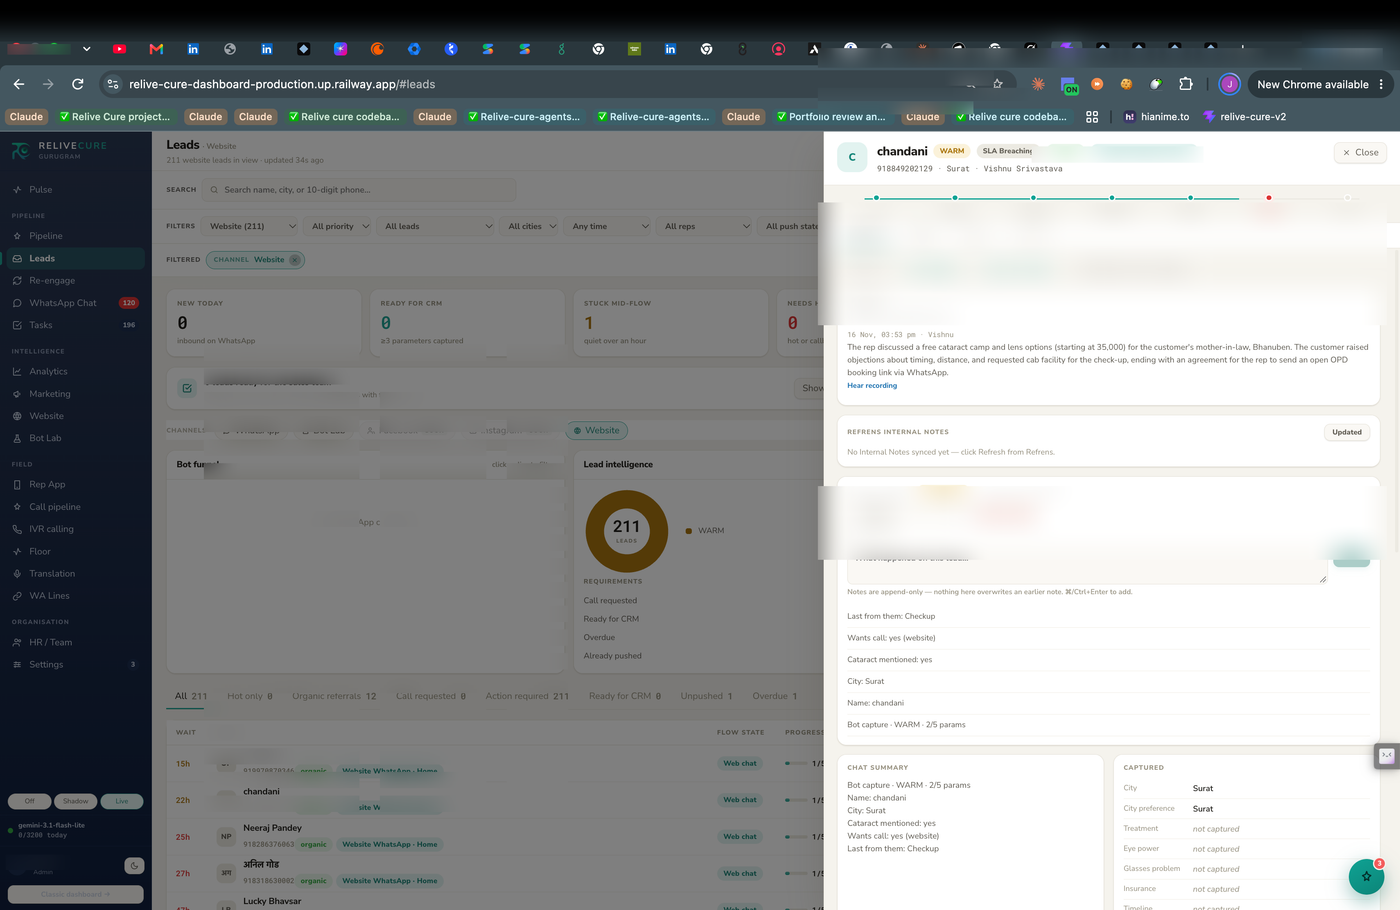
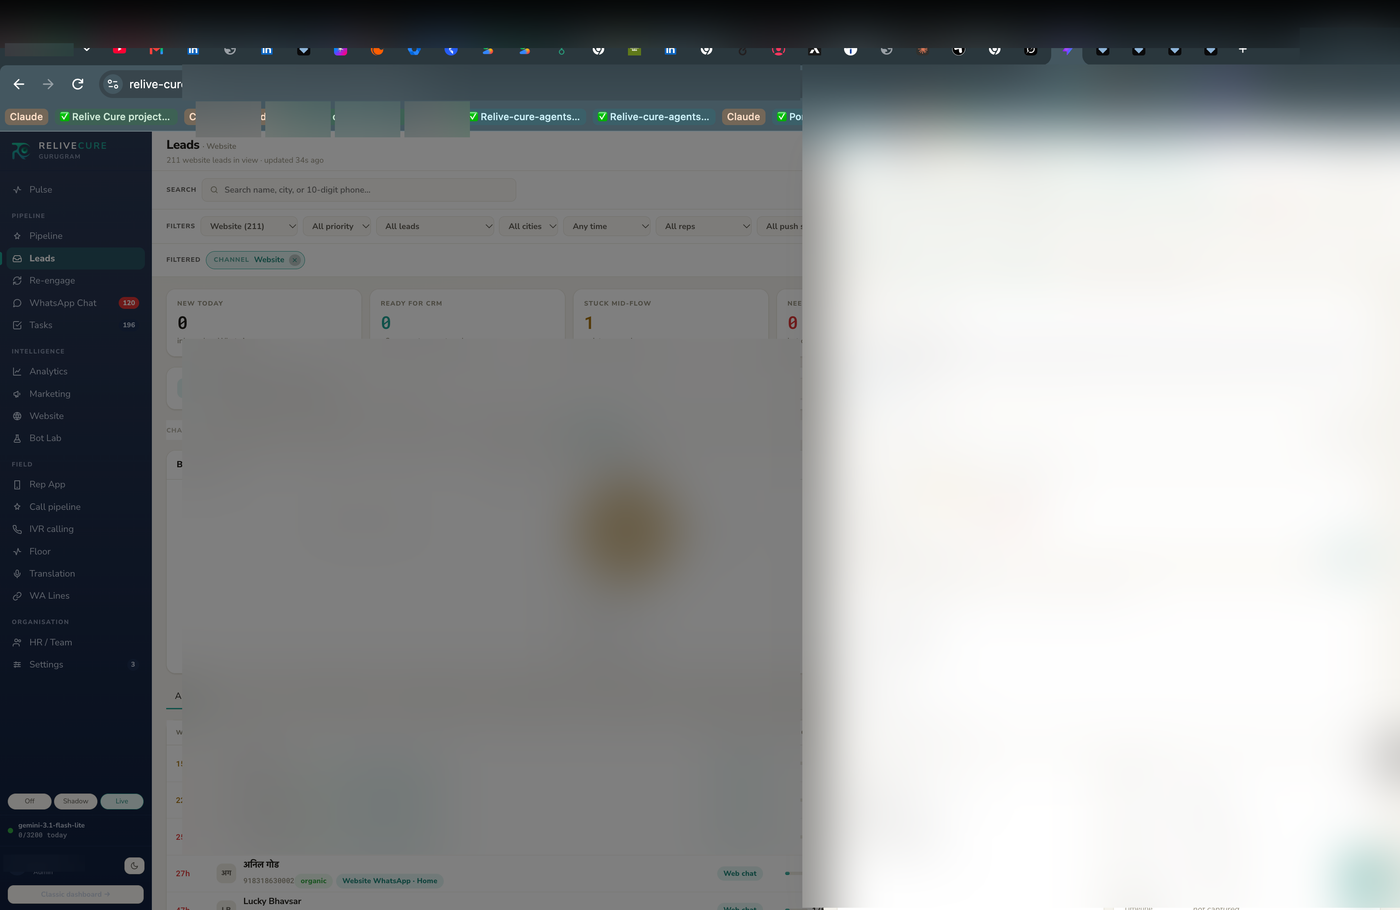
Default light theme; tighten PIKU naming; heavy blur pass on shots.
PIKU only (drop Eko labels) across case tabs, work docs, and markdown. First paint defaults to light; dark stays on toggle. Rebuild ReliveCure and Coke Buddy redactions with double Gaussian blur on PII/money regions.

diff --git a/lib/prototype-data.ts b/lib/prototype-data.ts
@@ -135,8 +135,8 @@ export const CASES: CaseStudy[] = [
   {
     id: "piku",
     numLabel: "03",
-    kicker: "Eko · in progress",
-    title: "Eko / PIKU",
+    kicker: "In progress · concept",
+    title: "PIKU",
     status: "In progress · concept",
     context:
       "A local-first personal AI workspace: persistent memory, retrieval, context assembly, agent workflows. Documented direction is Tauri, Rust, React, TypeScript, Ollama and local models. The architecture drawing is a direction, not a verified deployment.",
@@ -428,8 +428,10 @@ export const BUILDS = [
     status: "Freelance · handed over",
     body: "ReliveCure. Transferred to their team. I do not operate it now.",
     shots: [
-      { label: "Pulse (redacted)", src: "/shots/relive-pulse-web.png" },
-      { label: "Analytics (redacted)", src: "/shots/relive-analytics.png" },
+      { label: "Pulse", src: "/shots/relive-pulse-web.png" },
+      { label: "Analytics", src: "/shots/relive-analytics-web.png" },
+      { label: "Marketing", src: "/shots/relive-marketing-web.png" },
+      { label: "Leads", src: "/shots/relive-leads-web.png" },
     ],
     docHref: "/work/relivecure",
     githubHref: "https://github.com/jaskiringg/relive-cure",

diff --git a/lib/work-docs.ts b/lib/work-docs.ts
@@ -75,6 +75,6 @@ export const WORK_INDEX: {
 }[] = [
   { slug: "salescode", title: "Salescode AI × Coca-Cola", blurb: "Flagship. Enterprise implementations + SCAI application layer.", lane: "consult", github: null },
   { slug: "relivecure", title: "ReliveCure", blurb: "Call intelligence · transferred.", lane: "operate", github: "https://github.com/jaskiringg/relive-cure" },
-  { slug: "piku", title: "Eko / PIKU", blurb: "In progress. Local-first AI workspace — designed, not shipped.", lane: "build", github: "https://github.com/jaskiringg/piku" },
+  { slug: "piku", title: "PIKU", blurb: "In progress. Local-first AI workspace — designed, not shipped.", lane: "build", github: "https://github.com/jaskiringg/piku" },
   { slug: "mandibhai", title: "Mandi Bhai", blurb: "Early marketplace. Transferred to their team.", lane: "build", github: "https://github.com/jaskiringg/mandibhai" },
 ];

diff --git a/app/layout.tsx b/app/layout.tsx
@@ -45,7 +45,7 @@ export default function RootLayout({
       <head>
         <script
           dangerouslySetInnerHTML={{
-            __html: `(function(){try{var k='atlas-theme',s=localStorage.getItem(k),d=window.matchMedia('(prefers-color-scheme: light)').matches?'light':'dark';document.documentElement.dataset.colorScheme=s==='light'||s==='dark'?s:d;}catch(e){document.documentElement.dataset.colorScheme='dark';}})();`,
+            __html: `(function(){try{var k='atlas-theme',s=localStorage.getItem(k),d='light';document.documentElement.dataset.colorScheme=s==='light'||s==='dark'?s:d;}catch(e){document.documentElement.dataset.colorScheme='light';}})();`,
           }}
         />
       </head>

diff --git a/components/prototype/sections/work-section.tsx b/components/prototype/sections/work-section.tsx
@@ -30,7 +30,7 @@ function WorkSection({ revealed, activeCase, pickCase }: WorkSectionProps) {
           <SectionHead
             kicker="Selected work"
             title="Salescode first. The rest by name."
-            lede="Flagship is Coca-Cola on Salescode. ReliveCure and Mandi Bhai were transferred. Eko / PIKU is in progress. Screens are only files already in this repo."
+            lede="Flagship is Coca-Cola on Salescode. ReliveCure and Mandi Bhai were transferred. PIKU is in progress. Screens are only files already in this repo."
           />
 
           <div data-work-tabs className="pt-work-tabs" role="tablist" aria-label="Selected work">

diff --git a/components/prototype/prototype-site.tsx b/components/prototype/prototype-site.tsx
@@ -22,7 +22,7 @@ const TAB_PAUSE_MS = 16000;
 const REVEAL_IDS = ["overview", "work", "capabilities", "lab", "approach", "experience", "contact"] as const;
 
 export default function PrototypeSite() {
-  const [theme, setThemeState] = useState<ColorScheme>("dark");
+  const [theme, setThemeState] = useState<ColorScheme>("light");
   const [activeCase, setActiveCase] = useState(0);
   const [revealed, setRevealed] = useState<Record<string, boolean>>({});
   const [activeSection, setActiveSection] = useState("overview");

diff --git a/lib/theme.ts b/lib/theme.ts
@@ -13,9 +13,9 @@ export function setTheme(scheme: ColorScheme) {
   localStorage.setItem(STORAGE_KEY, scheme);
 }
 
+/** Default site theme when nothing is stored — light first. */
 export function getPreferredTheme(): ColorScheme {
-  if (typeof window === "undefined") return "dark";
-  return window.matchMedia("(prefers-color-scheme: light)").matches ? "light" : "dark";
+  return "light";
 }
 
 export function initTheme() {

diff --git a/content/work/piku.md b/content/work/piku.md
@@ -1,5 +1,5 @@
 ---
-title: Eko / PIKU
+title: PIKU
 slug: piku
 kicker: In progress · local-first AI workspace
 github: https://github.com/jaskiringg/piku

diff --git a/public/docs/piku.md b/public/docs/piku.md
@@ -1,5 +1,5 @@
 ---
-title: Eko / PIKU
+title: PIKU
 slug: piku
 kicker: In progress · local-first AI workspace
 github: https://github.com/jaskiringg/piku
